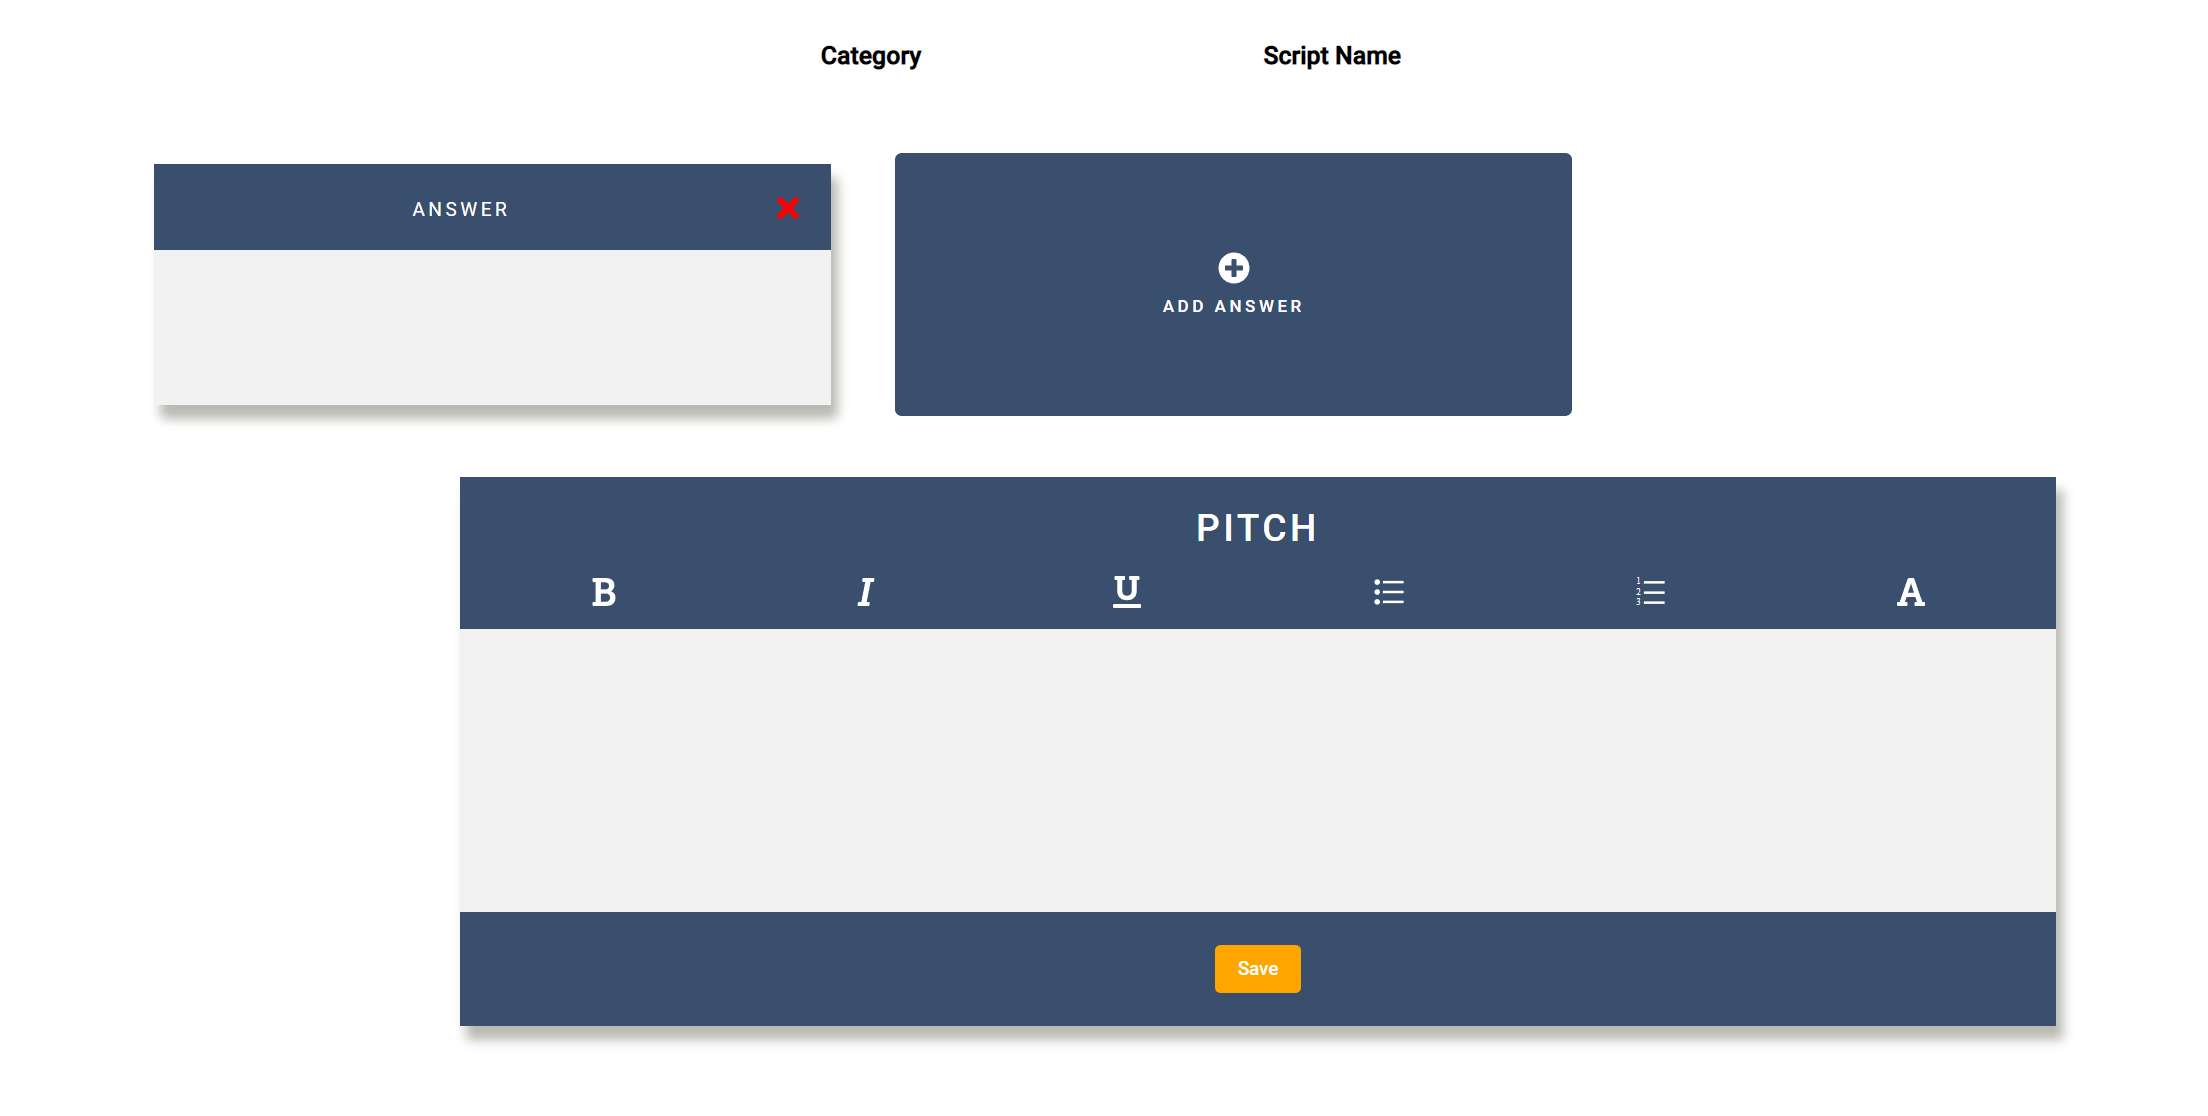
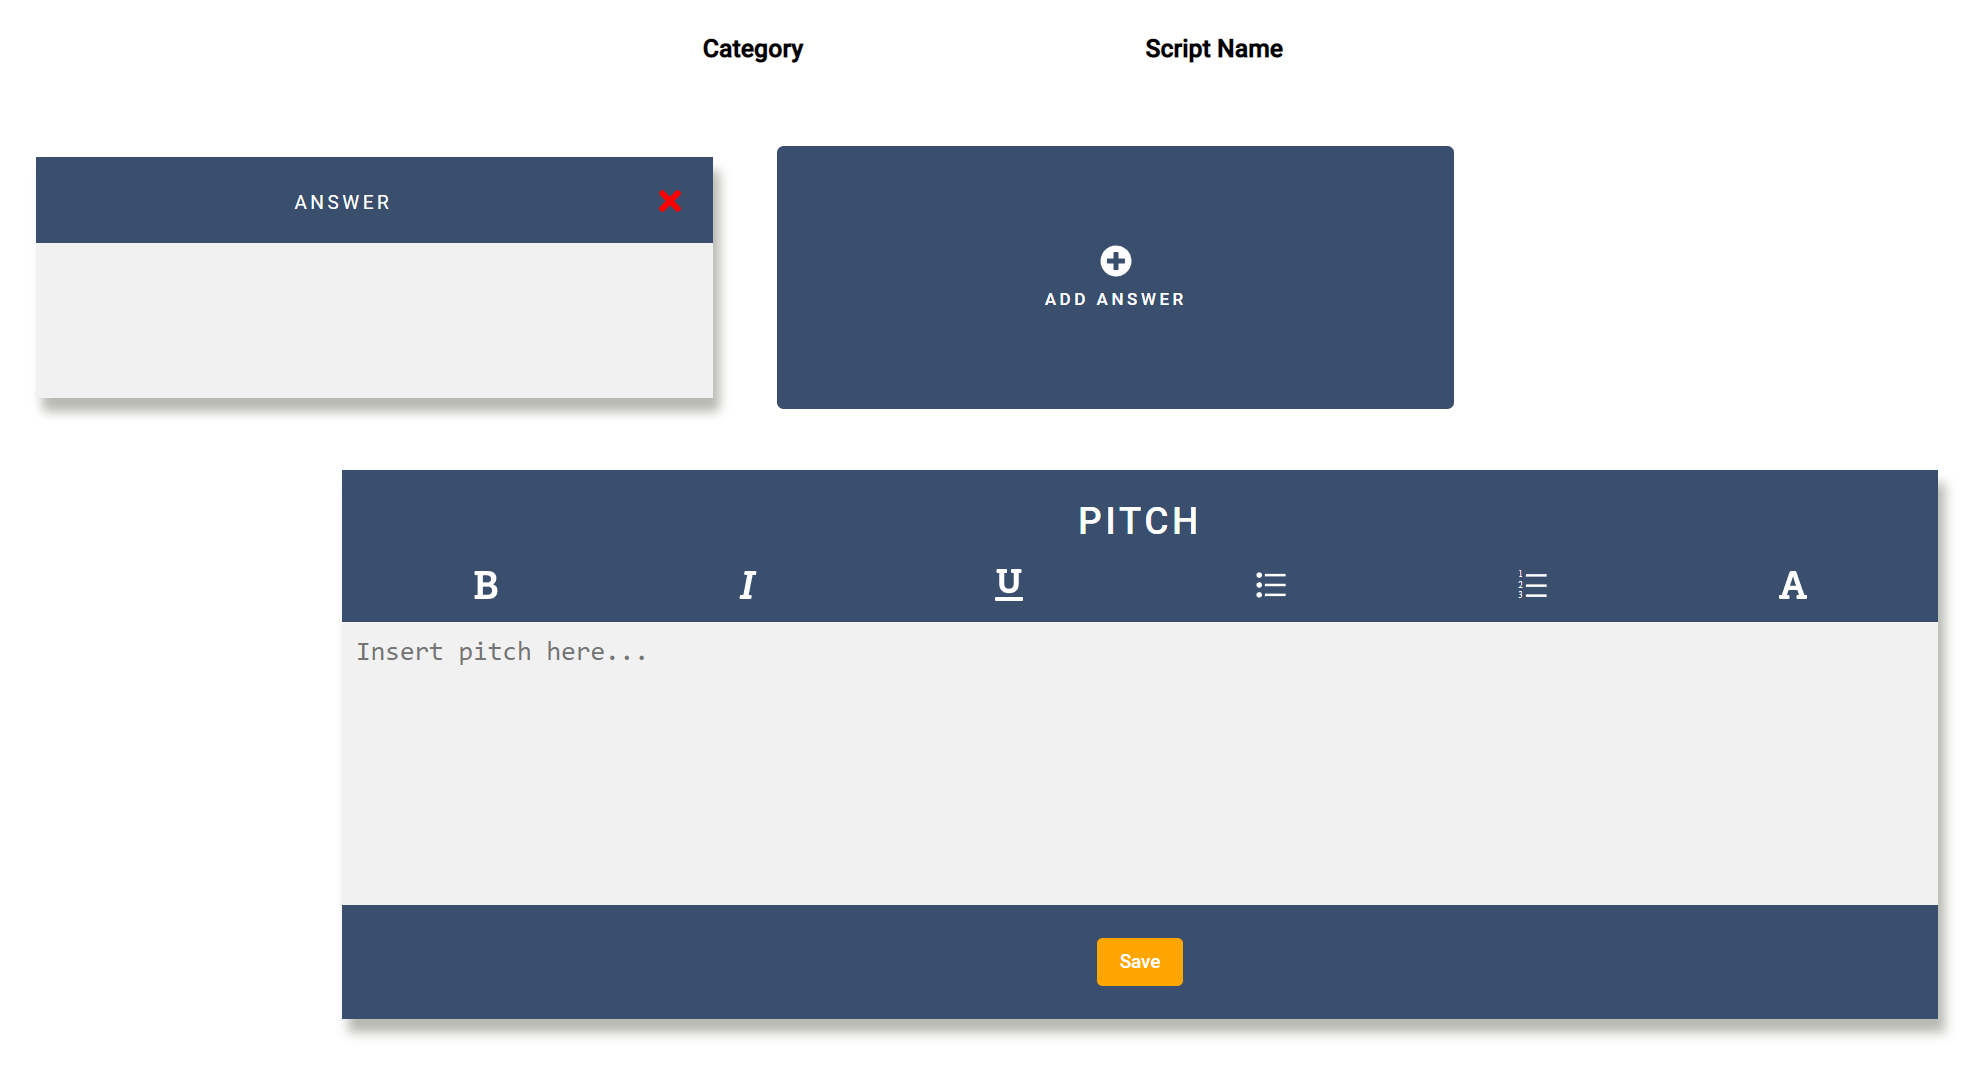
css modified

diff --git a/BasicAngular/src/app/components/build-script/DialogForm.html b/BasicAngular/src/app/components/build-script/DialogForm.html
@@ -1,36 +1,64 @@
     
-        <div style = "  display: flex;
-        flex-direction: column;
-        justify-content: center;
-        margin-right: auto; margin-left: auto; margin-top:2%;
-        width: 50%;
-      ">
-        <h3>Script Name: </h3><input matInput [(ngModel)]="name" placeholder ="Input Name">
-        <h3>Category: </h3>
-    <mat-form-field>
-        <mat-select  [(ngModel)]="category">
-          <mat-option value="IT">IT</mat-option>
-          <mat-option value="Health">Health</mat-option>
-          <mat-option value="Insurance">Insurance</mat-option>
-          <mat-option value="Electricity">Electricity</mat-option>
-        </mat-select>
-    </mat-form-field>
-      <h3>Sub-Category: </h3>
-      <mat-form-field>
-          <mat-select   [(ngModel)] ="subcategory">
-            <mat-option value="Business Development">Business Development</mat-option>
-            <mat-option value="Sales Representative">Sales Representative</mat-option>
-            <mat-option value="Telesales">Telesales</mat-option>
-            <mat-option value="Marketing">Marketing</mat-option>
-            <mat-option value="Account Management">Account Management</mat-option>
-            <mat-option value="Outbound">Outbound</mat-option>
-            <mat-option value="Inbound">Inbound</mat-option>
-            <mat-option value="Sales Management">Sales Management</mat-option>
-            <mat-option value="Territory Sales">Territory Sales</mat-option>
-            <mat-option value="Area Sales">Area Sales</mat-option>
-          </mat-select>
+       <!-- <button mat-button ><mat-icon>
+          <mat-icon svgIcon="remove">
+       </mat-icon></button> -->
+       <mat-grid-list cols="2" rowHeight="50px">
+        <mat-grid-tile class="dialog-left" [colspan]="1">
+          <div class="heading-left">
+          <h3>Script Name:</h3>
+        </div>
+        </mat-grid-tile>
+        <mat-grid-tile class="dialog-right" [colspan]="1">
+          <input class="input-right" matInput [(ngModel)]="name" placeholder ="Input Name">
+        </mat-grid-tile>
+        <mat-grid-tile class="dialog-left" [colspan]="1">
+        <h3 class="heading-left"> Category:</h3> 
+        </mat-grid-tile>
+        <mat-grid-tile class="dialog-right" [colspan]="1">
+          <mat-form-field class="input-right">
+            <mat-select [(ngModel)]="category">
+              <mat-option value="IT">IT</mat-option>
+              <mat-option value="Health">Health</mat-option>
+              <mat-option value="Insurance">Insurance</mat-option>
+              <mat-option value="Electricity">Electricity</mat-option>
+            </mat-select>
         </mat-form-field>
-    <input matInput [(ngModel)]="description" placeholder="Description">
-    <p></p>
-    <button mat-button (click) = "closeDialog()">Save</button>
-      </div>
+        </mat-grid-tile>
+        <mat-grid-tile class="dialog-left" [colspan]="1">
+          <h3 class="heading-left">Sub-Category:</h3>
+        </mat-grid-tile>
+        <mat-grid-tile class="dialog-right" [colspan]="1">
+          <mat-form-field class="input-right" >
+            <mat-select [(ngModel)] ="subcategory">
+              <mat-option value="Business Development">Business Development</mat-option>
+              <mat-option value="Sales Representative">Sales Representative</mat-option>
+              <mat-option value="Telesales">Telesales</mat-option>
+              <mat-option value="Marketing">Marketing</mat-option>
+              <mat-option value="Account Management">Account Management</mat-option>
+              <mat-option value="Outbound">Outbound</mat-option>
+              <mat-option value="Inbound">Inbound</mat-option>
+              <mat-option value="Sales Management">Sales Management</mat-option>
+              <mat-option value="Territory Sales">Territory Sales</mat-option>
+              <mat-option value="Area Sales">Area Sales</mat-option>
+            </mat-select>
+          </mat-form-field>
+        </mat-grid-tile>
+        <mat-grid-tile class="dialog-left" [colspan]="1">
+        <h3 class="heading-left">Description:</h3>
+        </mat-grid-tile>
+        <mat-grid-tile class="dialog-right" [colspan]="1">
+            <input class="input-right" matInput [(ngModel)]="description" placeholder="Description">
+        </mat-grid-tile>
+
+       </mat-grid-list>
+       
+       <mat-grid-list cols="3" rowHeight="50px">
+          <mat-grid-tile [colspan]="1"></mat-grid-tile>
+          <mat-grid-tile [colspan]="1">
+              <button class="save-btn" mat-button (click) = "closeDialog()">Save</button>
+          </mat-grid-tile>
+          <mat-grid-tile [colspan]="1"></mat-grid-tile>
+       </mat-grid-list>
+       
+       
+       

diff --git a/BasicAngular/src/app/components/admin/admin.component.html b/BasicAngular/src/app/components/admin/admin.component.html
@@ -10,16 +10,18 @@
 
 <!--ADD NEW USER ROW-->
 
-<mat-grid-list cols="11" rowHeight="100px">
+<mat-grid-list cols="5" rowHeight="100px">
   <mat-grid-tile [colspan]="1"> </mat-grid-tile>
-  <mat-grid-tile class="new-user-tile" [colspan]="3">
+  <mat-grid-tile class="new-user-tile" [colspan]="1">
       <button mat-button id="new-usr-bttn"><mat-icon class="plus-icon" svgIcon="add"></mat-icon>New User</button></mat-grid-tile>
-  <mat-grid-tile id="new-user-tile" [colspan]="3"> </mat-grid-tile>
-  <mat-grid-tile id="new-user-tile" [colspan]="3"> </mat-grid-tile>
+  <mat-grid-tile id="new-user-tile" [colspan]="1"> </mat-grid-tile>
+  <mat-grid-tile id="new-user-tile" [colspan]="1"> </mat-grid-tile>
   <mat-grid-tile [colspan]="1"> </mat-grid-tile>
+</mat-grid-list>
 
+  <mat-grid-list cols="5" rowHeight="200px">
   <mat-grid-tile [colspan]="1"> </mat-grid-tile>
-  <mat-grid-tile [colspan]="3">
+  <mat-grid-tile [colspan]="1">
       <div class ="userDetails">
           <mat-form-field id="form">
             <input matInput placeholder="First Name">
@@ -30,7 +32,7 @@
         </div>
     </mat-grid-tile>
 
-  <mat-grid-tile [colspan]="3"> 
+  <mat-grid-tile [colspan]="1"> 
       <div class ="userDetails">
       <mat-form-field id="form">
           <input matInput placeholder="Email">
@@ -41,7 +43,7 @@
     </div>
   </mat-grid-tile>
   
-  <mat-grid-tile [colspan]="3">
+  <mat-grid-tile [colspan]="1">
       <div class ="userDetails">
           <div class="perm-title">Permission</div>
       <mat-radio-group aria-label="User type">
@@ -72,11 +74,14 @@
       <mat-grid-tile [colspan]= "1">{{li.lName}}</mat-grid-tile>
       <mat-grid-tile  [colspan]="1">{{li.email}}</mat-grid-tile>
       <mat-grid-tile [colspan]= "1"></mat-grid-tile>
-      <mat-grid-tile [colspan]= "1"> <button mat-button (click)="editScript(li)"> <mat-icon id="edit-icon" svgIcon="edit"></mat-icon>
-      </button>
-      <button mat-button (click)="deleteScript(li)" [routerLink]="[ '/current-script' ]">
+      <mat-grid-tile [colspan]= "1"> 
+        <button class="edit-btn" mat-button (click)="editScript(li)">
+          <mat-icon id="edit-icon" svgIcon="edit"></mat-icon>
+        </button>
+        <button class="delete-btn" mat-button (click)="deleteScript(li)" [routerLink]="[ '/current-script' ]">
         <mat-icon id="delete-icon" svgIcon="delete"></mat-icon>
-      </button></mat-grid-tile>
+      </button>
+    </mat-grid-tile>
       <mat-grid-tile [colspan]= "1"> </mat-grid-tile>
       
   </mat-grid-list>

diff --git a/BasicAngular/src/app/components/admin/admin.component.ts b/BasicAngular/src/app/components/admin/admin.component.ts
@@ -18,7 +18,7 @@ export class AdminComponent implements OnInit {
       sanitizer.bypassSecurityTrustResourceUrl('../assets/img/plus-circle-solid.svg'));
     iconRegistry.addSvgIcon(
       'edit',
-      sanitizer.bypassSecurityTrustResourceUrl('../assets/edit-regular.svg'));
+      sanitizer.bypassSecurityTrustResourceUrl('../assets/img/edit-regular.svg'));
     iconRegistry.addSvgIcon(
       'delete',
       sanitizer.bypassSecurityTrustResourceUrl('../assets/img/red-cross.svg'));

diff --git a/BasicAngular/src/app/components/admin/admin.component.scss b/BasicAngular/src/app/components/admin/admin.component.scss
@@ -32,8 +32,7 @@
  }
 
 ::ng-deep .mat-radio-group.mat-radio-group{
-  margin-left: 20%;
-  margin-right: 20%;
+  justify-content: space-evenly; 
 }
 
 .plus-icon{
@@ -63,9 +62,13 @@
     justify-content: space-evenly;
     width: 90%;
   }
-  //remove after complete system
-  ::ng-deep mat-grid-tile.mat-grid-tile {
-   border: 1px solid #3a4f6e;
+ 
+  .edit-btn{
+    background: white;
+  }
+
+  .delete-btn{
+    background: white;
   }
 
   .table{

diff --git a/BasicAngular/src/app/components/build-script/build-script.component.html b/BasicAngular/src/app/components/build-script/build-script.component.html
@@ -333,7 +333,7 @@
             <mat-icon svgIcon="font"></mat-icon>
           </button>
         </div>
-        <textarea [(ngModel)]="texts" rows="8" cols="80"></textarea>
+        <textarea [(ngModel)]="texts" placeholder="Insert pitch here..." rows="8" cols="80"></textarea>
         <div class="save-edit-container">
           <button class="save-btn" mat-button mat-button (click)="openDialog()">Save</button>
         </div>

diff --git a/BasicAngular/src/app/components/build-script/DialogForm.scss b/BasicAngular/src/app/components/build-script/DialogForm.scss
@@ -1,0 +1,23 @@
+.dialog-left >::ng-deep .mat-figure{
+  justify-content: flex-end;
+}
+
+.dialog-right >::ng-deep .mat-figure{
+    justify-content: flex-start;
+  }
+
+  .heading-left{
+      padding-right: 20px;
+  }
+
+  .input-right{
+    padding-left: 20px;
+    // width: 100%;
+}
+
+.save-btn{
+justify-content: center; 
+width: 100%; 
+height: 100%;
+background: orange;
+}

diff --git a/BasicAngular/src/app/components/build-script/build-script.component.ts b/BasicAngular/src/app/components/build-script/build-script.component.ts
@@ -202,6 +202,7 @@ export class BuildScriptComponent implements OnInit {
 @Component({
   selector: 'DialogForm',
   templateUrl: 'DialogForm.html',
+  styleUrls: ['./DialogForm.scss']
 })
 export class DialogForm implements OnInit{
   

diff --git a/BasicAngular/src/app/components/build-script/build-script.component.scss b/BasicAngular/src/app/components/build-script/build-script.component.scss
@@ -185,6 +185,8 @@ textarea {
   justify-content: space-between;
 }
 
+
+
   .save-edit-container{
     text-align: center;
     margin: 10px;
